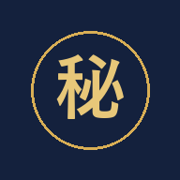
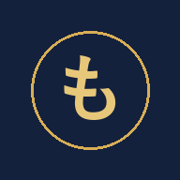
入口の名前を「もも」に
Claude-Session: https://claude.ai/code/session_01VxF6sf4NHLQQv5Nia9Eas5

Changed region(s): [[0.3056, 0.3056, 0.6944, 0.6667]]

diff --git a/hayato.html b/hayato.html
@@ -4,11 +4,11 @@
 <meta charset="utf-8">
 <meta name="viewport" content="width=device-width,initial-scale=1">
 <meta name="theme-color" content="#14213d">
-<meta name="apple-mobile-web-app-title" content="秘書">
+<meta name="apple-mobile-web-app-title" content="もも">
 <link rel="manifest" href="hayato-manifest.json?v=hisho">
 <link rel="apple-touch-icon" href="hisho-icon-180.png" sizes="180x180">
 <link rel="icon" href="hisho-icon-192.png" type="image/png">
-<title>秘書</title>
+<title>もも</title>
 <style>
 :root{--bg:#14213d;--cyan:#d8ae55;--cyan2:#f1d58e;--text:#f4f2ee;--muted:#c9cfdb;--line:rgba(216,174,85,.5)}
 html,body{margin:0;height:100%;background:radial-gradient(ellipse at 50% 35%,#22345c,#14213d 65%);color:var(--text);font-family:"Segoe UI","Hiragino Sans","Noto Sans JP",sans-serif}
@@ -31,13 +31,13 @@ button{min-height:46px;padding:0 22px;border-radius:8px;border:1px solid var(--l
 <div class="box">
   <div class="ring"></div>
   <img class="install-icon" id="installIcon" src="hisho-icon-192.png" alt="" width="108" height="108" hidden>
-  <div class="logo">秘書</div>
-  <p id="msg">秘書を呼んでいます…</p>
-  <button id="openApp" type="button" hidden>秘書を開く</button>
+  <div class="logo">もも</div>
+  <p id="msg">ももを呼んでいます…</p>
+  <button id="openApp" type="button" hidden>ももを開く</button>
   <div id="keyBox">
     <p>最初の1回だけ、合言葉を入れてください。<br>（PCの hayato\.secrets\key.txt）</p>
     <input id="k" placeholder="合言葉" autocomplete="off">
-    <button id="ok">秘書を開く</button>
+    <button id="ok">ももを開く</button>
   </div>
 </div>
 <script>
@@ -74,18 +74,18 @@ async function sendLife(url, key) {
 async function go() {
   const key = normKey(get("hayato_key"));
   if (!key) { $("#msg").textContent = "合言葉がまだありません"; $("#keyBox").style.display = "flex"; return; }
-  // 英数字・記号以外（日本語など）が混じった合言葉は送れない（2026-11-16 秘書の画面で案件と絵が出なかった）→ 入れ直してもらう
+  // 英数字・記号以外（日本語など）が混じった合言葉は送れない（2026-11-16 ももの画面で案件と絵が出なかった）→ 入れ直してもらう
   if (/[^!-~]/.test(key)) { set("hayato_key", ""); $("#msg").textContent = "合言葉を英数字で入れ直してください（日本語が混じっていました）"; $("#keyBox").style.display = "flex"; return; }
   try {
     const t = await (await fetch(`https://ntfy.sh/${TOPIC}/json?poll=1&since=24h`)).text();
     const urls = t.trim().split("\n").map(l => { try { return JSON.parse(l).message; } catch { return ""; } })
       .filter(u => /^https:\/\/[a-z0-9-]+\.trycloudflare\.com$/.test(u || ""));
     const url = urls[urls.length - 1];
-    if (!url) { $("#msg").innerHTML = "秘書が見つかりません。<br>PCの電源が入っていて、秘書が起動しているか確認してください。"; return; }
+    if (!url) { $("#msg").innerHTML = "ももが見つかりません。<br>PCの電源が入っていて、ももが起動しているか確認してください。"; return; }
     await sendLife(url, key);
     $("#msg").textContent = "つながりました";
     const dest = url + "/#k=" + encodeURIComponent(key) + (MORNING ? "&morning=1" : "") + (NUDGE ? "&nudge=1" : "") + (/req/.test(location.hash) ? "&req=1" : "") + (/inbox|check/.test(location.hash) ? "&inbox=1" : "") + (/news/.test(location.hash) ? "&news=1" : "");
-    // ホーム画面のアプリから開いた時は、この入口の中に秘書を全画面で埋め込む（別のURLへ飛ぶと、上にURLの帯が出て「サイト」に見えていた 2026-11-16）
+    // ホーム画面のアプリから開いた時は、この入口の中にももを全画面で埋め込む（別のURLへ飛ぶと、上にURLの帯が出て「サイト」に見えていた 2026-11-16）
     if (!/[?&]noembed=1/.test(location.search)) {  // いつでも埋め込む（アプリ判定がずれても帯を出さない）。?noembed=1 で前の飛び方
       const f = document.createElement("iframe");
       f.src = dest;
@@ -98,7 +98,7 @@ async function go() {
     location.replace(dest);
   } catch (e) { $("#msg").textContent = "つながりませんでした（" + e.message + "）"; }
 }
-$("#ok").onclick = () => { const v = normKey($("#k").value); if (!v) return; if (/[^!-~]/.test(v)) { $("#msg").textContent = "合言葉は英数字で入れてください"; return; } set("hayato_key", v); $("#keyBox").style.display = "none"; $("#msg").textContent = "秘書を呼んでいます…"; go(); };
+$("#ok").onclick = () => { const v = normKey($("#k").value); if (!v) return; if (/[^!-~]/.test(v)) { $("#msg").textContent = "合言葉は英数字で入れてください"; return; } set("hayato_key", v); $("#keyBox").style.display = "none"; $("#msg").textContent = "ももを呼んでいます…"; go(); };
 const installRequested = new URLSearchParams(location.search).get("install") === "1";
 const installed = navigator.standalone || matchMedia("(display-mode: standalone)").matches;
 const hk = location.hash.match(/k=([^&]+)/);
@@ -110,7 +110,7 @@ if (installRequested && !installed) {
   $("#openApp").hidden = false;
   $("#openApp").onclick = () => {
     $("#openApp").hidden = true;
-    $("#msg").textContent = "秘書を呼んでいます…";
+    $("#msg").textContent = "ももを呼んでいます…";
     go();
   };
 } else {
